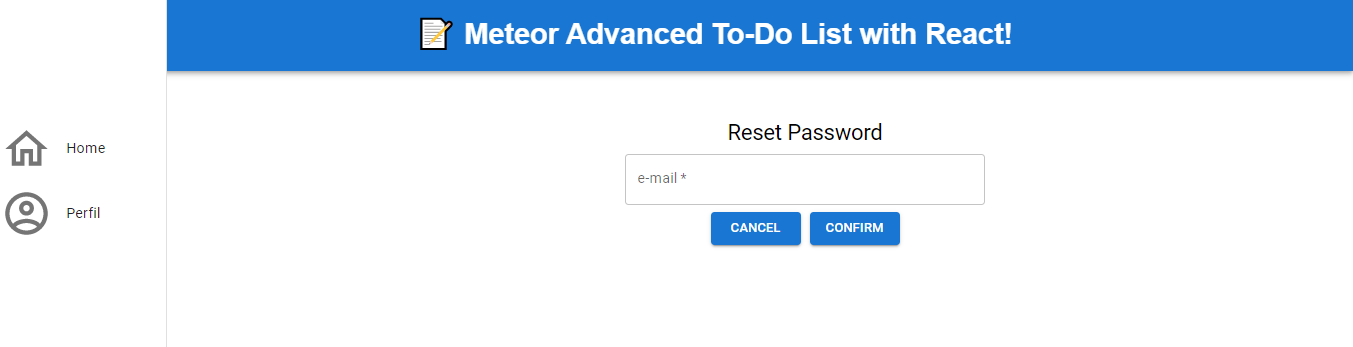
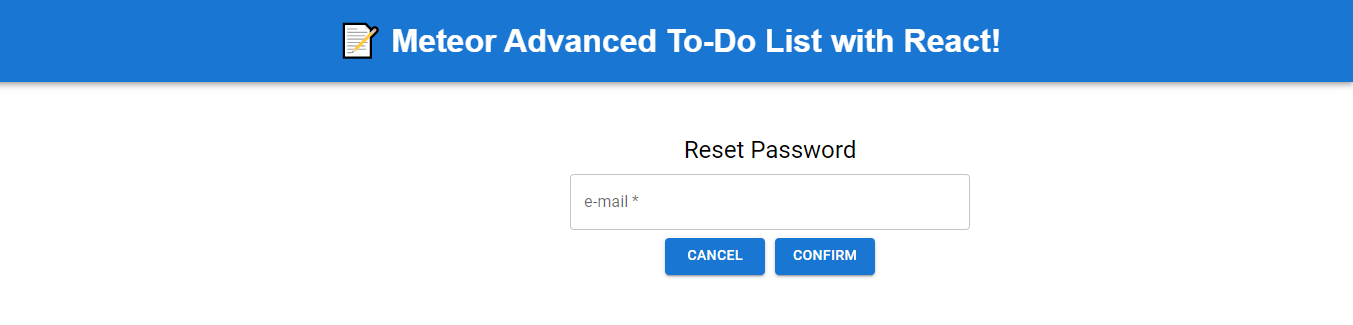
Otimização Drawer

diff --git a/imports/ui/NavBar.jsx b/imports/ui/NavBar.jsx
@@ -8,6 +8,7 @@ import Avatar from '@mui/material/Avatar';
 import Box from '@mui/material/Box';
 import Drawer from '@mui/material/Drawer';
 import Container from '@mui/material/Container';
+import IconButton from '@mui/material/IconButton';
 import List from '@mui/material/List';
 import ListItem from '@mui/material/ListItem';
 import ListItemButton from '@mui/material/ListItemButton';
@@ -17,29 +18,64 @@ import Toolbar from '@mui/material/Toolbar';
 import Typography from '@mui/material/Typography';
 import HomeOutlinedIcon from '@mui/icons-material/HomeOutlined';
 import AccountCircleOutlinedIcon from '@mui/icons-material/AccountCircleOutlined';
+import LogoutOutlinedIcon from '@mui/icons-material/LogoutOutlined';
 
-const drawerWidth = 200;
+function UserData({ sx, username, navigate }) {
+  const onClickLogout = () => {
+    if (username) {
+      navigate('/');
+      Meteor.logout();
+    }
+  };
 
-function UserData({ sx, username }) {
   return (
-    <Typography variant="h5" color="textSecondary" align="center" {...sx}>
+    <Box
+      sx={{
+        display: 'flex',
+        flexDirection: 'column',
+        justifyContent: 'center',
+        alignItems: 'center',
+      }}
+    >
       {username ? (
-        <Container>Hi {username}!</Container>
+        <>
+          <Typography variant="h5" color="textSecondary" align="center" {...sx}>
+            <Container>Hi {username}!</Container>
+          </Typography>
+          <IconButton
+            aria-label="logout"
+            color="primary"
+            align="center"
+            onClick={onClickLogout}
+          >
+            <LogoutOutlinedIcon />
+          </IconButton>
+        </>
       ) : (
-        <Container>&nbsp;</Container>
+        <>
+          <Typography variant="h5" color="textSecondary" align="center" {...sx}>
+            <Container>&nbsp;</Container>
+          </Typography>
+        </>
       )}
-    </Typography>
+    </Box>
   );
 }
 
 export default function NavBar() {
   const user = useTracker(() => Meteor.user());
 
+  const drawerWidth = user ? 200 : 0;
+  console.log(`drawerWidth ${drawerWidth}`);
+
   let navigate = useNavigate();
 
   const onClickHome = () => {
-    navigate('/');
-    Meteor.logout();
+    if (user) {
+      navigate('/welcome');
+    } else {
+      navigate('/');
+    }
   };
 
   const onClickPerfil = () => {
@@ -60,39 +96,41 @@ export default function NavBar() {
         variant="permanent"
         anchor="left"
       >
-        <Toolbar>
-          {user ? (
-            <UserData sx={{ mt: 8, mb: 4 }} username={user.username} />
-          ) : (
-            <UserData sx={{ mt: 8, mb: 4 }} username={null} />
-          )}
-        </Toolbar>
-        <List>
-          <ListItem key="Home" disablePadding>
-            <ListItemButton onClick={onClickHome}>
-              <ListItemIcon>
-                <HomeOutlinedIcon sx={{ fontSize: 56 }} />
-              </ListItemIcon>
-              <ListItemText primary="Home" sx={{ paddingLeft: 2 }} />
-            </ListItemButton>
-          </ListItem>
-          <ListItem key="Perfil" disablePadding>
-            <ListItemButton onClick={onClickPerfil}>
-              <ListItemIcon>
-                {user ? (
-                  <Avatar
-                    alt="Foto do perfil do usuário"
-                    src={user.profile.photouser}
-                    sx={{ width: 56, height: 56 }}
-                  />
-                ) : (
-                  <AccountCircleOutlinedIcon sx={{ fontSize: 56 }} />
-                )}
-              </ListItemIcon>
-              <ListItemText primary="Perfil" sx={{ paddingLeft: 2 }} />
-            </ListItemButton>
-          </ListItem>
-        </List>
+        {user ? (
+          <>
+            <Toolbar>
+              <UserData
+                sx={{ mt: 8 }}
+                username={user.username}
+                navigate={navigate}
+              />
+            </Toolbar>
+            <List>
+              <ListItem key="Home" disablePadding>
+                <ListItemButton onClick={onClickHome}>
+                  <ListItemIcon>
+                    <HomeOutlinedIcon sx={{ fontSize: 56, mt: 4 }} />
+                  </ListItemIcon>
+                  <ListItemText primary="Home" sx={{ paddingLeft: 2 }} />
+                </ListItemButton>
+              </ListItem>
+              <ListItem key="Perfil" disablePadding>
+                <ListItemButton onClick={onClickPerfil}>
+                  <ListItemIcon>
+                    <Avatar
+                      alt="Foto do perfil do usuário"
+                      src={user.profile.photouser}
+                      sx={{ width: 56, height: 56 }}
+                    />
+                  </ListItemIcon>
+                  <ListItemText primary="Perfil" sx={{ paddingLeft: 2 }} />
+                </ListItemButton>
+              </ListItem>
+            </List>
+          </>
+        ) : (
+          ''
+        )}
       </Drawer>
     </Box>
   );

diff --git a/imports/ui/WelcomeForm.jsx b/imports/ui/WelcomeForm.jsx
@@ -99,7 +99,7 @@ export default function WelcomeForm() {
         }}
       >
         <Grid item xs={12} sm={6}>
-          <Card variant="elevation" elevation="10" sx={{ maxWidth: 250 }}>
+          <Card variant="elevation" elevation={10} sx={{ maxWidth: 250 }}>
             <CardContent>
               <Typography
                 gutterBottom
@@ -122,7 +122,7 @@ export default function WelcomeForm() {
         <Grid item xs={12} sm={6}>
           <Card
             variant="elevation"
-            elevation="10"
+            elevation={10}
             sx={{ maxWidth: 250, maxHeight: 115 }}
           >
             <CardContent>
@@ -147,7 +147,7 @@ export default function WelcomeForm() {
         <Grid item xs={12} sm={6}>
           <Card
             variant="elevation"
-            elevation="10"
+            elevation={10}
             sx={{ maxWidth: 250, maxHeight: 115 }}
           >
             <CardContent>

diff --git a/imports/routes/routes.jsx b/imports/routes/routes.jsx
@@ -20,15 +20,17 @@ import ResetPasswordForm from '../ui/ResetPasswordForm';
 import Box from '@mui/material/Box';
 import AppBar from '@mui/material/AppBar';
 
-const drawerWidth = 100;
-
 Meteor.startup(() => {
   console.log('startup Lado Cliente');
+  console.log(this.user);
+
+  const drawerWidth = this.user ? 100 : 0;
+  console.log(`drawerWidth ${drawerWidth}`);
+
   render(
     <Router>
       <Box style={{ display: 'flex', flexDirection: 'column' }}>
         <AppBar
-          position="fixed"
           sx={{
             width: { sm: `calc(100% - ${drawerWidth}px)` },
             ml: { sm: `${drawerWidth}px` },
@@ -42,7 +44,6 @@ Meteor.startup(() => {
             width: { sm: drawerWidth },
             flexShrink: { sm: 0 },
           }}
-          aria-label="mailbox folders"
         >
           <NavBar />
         </Box>
